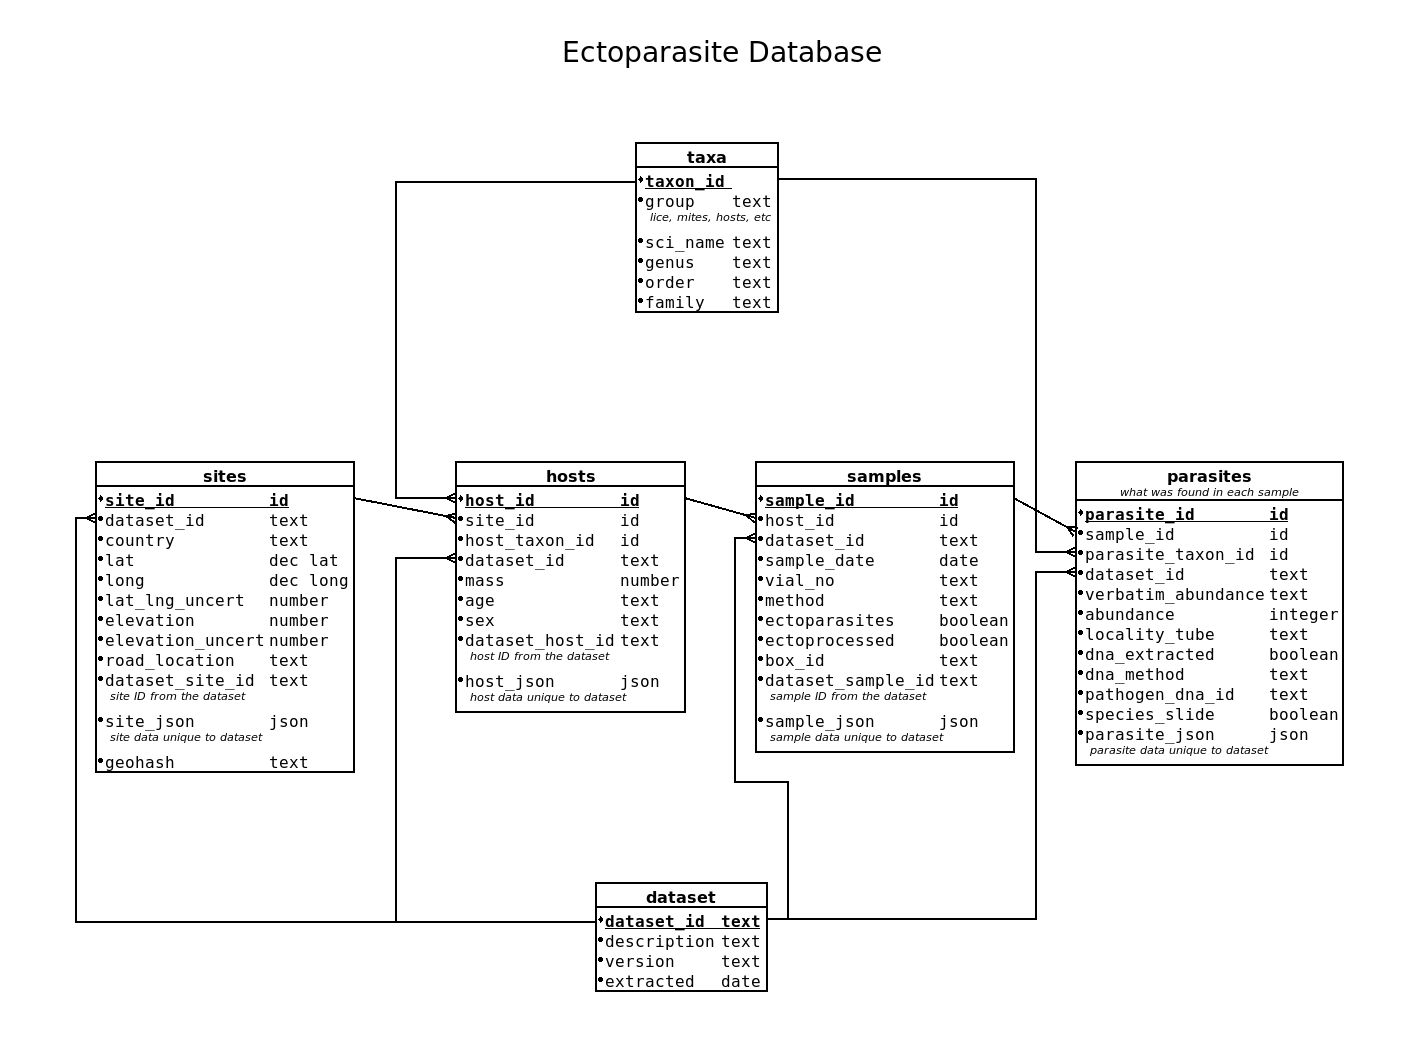
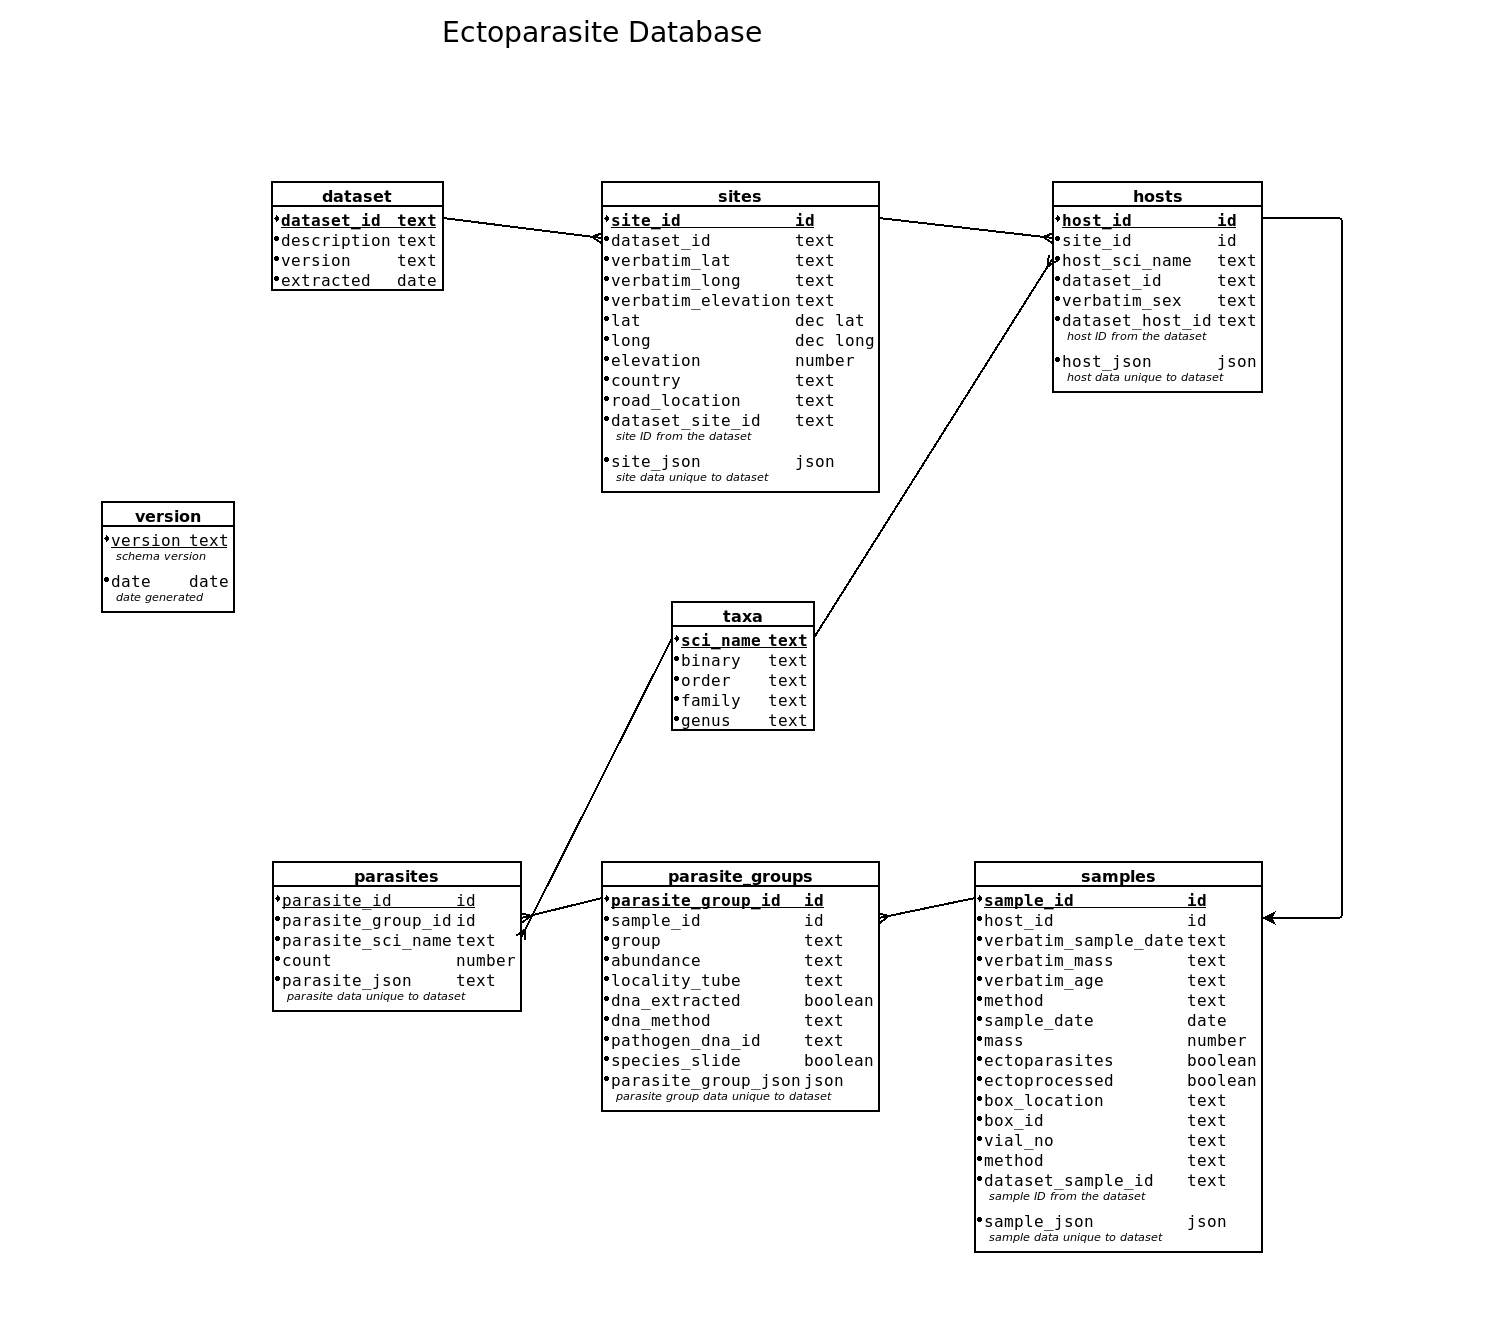
Update DB schema

diff --git a/ectoparasites.py b/ectoparasites.py
@@ -3,6 +3,7 @@
 """Wrapper for ecoparasites functions."""
 
 import argparse
+import textwrap
 import lib.db as db
 from lib.util import log
 import lib.columbia_ingest as columbia_ingest
@@ -19,8 +20,9 @@ def parse_args():
     """Get user input."""
     parser = argparse.ArgumentParser(
         allow_abbrev=True,
-        description='Extract, transform, & load data for the '
-                    'sightings database.')
+        description=textwrap.dedent("""
+            Extract, transform, & load data for the ectoparasites database.
+            """))
     subparsers = parser.add_subparsers()
 
     backup_parser = subparsers.add_parser(
@@ -39,10 +41,8 @@ def parse_args():
     ingest_parser.add_argument(
         'datasets',
         nargs='+',
-        metavar='DATASET',
         choices=INGEST_OPTIONS,
-        help=f"""Ingest a dataset into the SQLite3 database.
-            Options: { ", ".join(INGEST_OPTIONS) }.""")
+        help=f"""Ingest a dataset into the SQLite3 database.""")
     ingest_parser.set_defaults(func=ingest)
 
     return parser.parse_args()

diff --git a/lib/db.py b/lib/db.py
@@ -9,6 +9,7 @@ from datetime import datetime
 import pandas as pd
 from lib.util import log
 
+VERSION = 'v0.1.1'
 
 PROCESSED = Path('data') / 'processed'
 DB_FILE = abspath(PROCESSED / 'ectoparasites.sqlite.db')
@@ -52,6 +53,15 @@ def create():
         remove(DB_FILE)
 
     subprocess.check_call(cmd, shell=True)
+
+    insert_db_version()
+
+
+def insert_db_version():
+    """Insert the version of the database."""
+    cxn = connect()
+    cxn.execute('INSERT INTO version (version) VALUES (?)', (VERSION, ))
+    cxn.commit()
 
 
 def backup_database():
